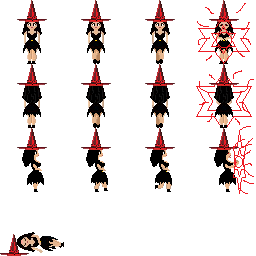
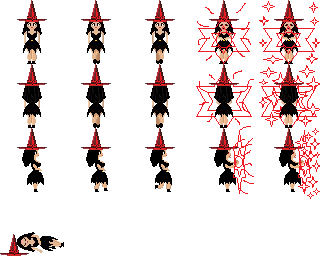
adicionado mecanica de escalar magia

diff --git a/src/engine.js b/src/engine.js
@@ -8,6 +8,14 @@ class Engine {
         this.resize()
         window.addEventListener('resize', () => this.resize())
         this.entities = []
+
+        this.backgroundImage = new Image();
+        this.backgroundImage.src = 'img/background.png';
+
+        this.backgroundPattern = null;
+        this.backgroundImage.onload = () => {
+            this.backgroundPattern = this.context.createPattern(this.backgroundImage, 'repeat');
+        };
     }
 
     resize() {
@@ -40,7 +48,8 @@ class Engine {
             if (entity instanceof Player && !entity.isDead) { // Evita colisão se estiver morto
                 allMagics.forEach(magic => {
                     if (magic.owner !== entity && this.checkCollision(entity, magic)) {
-                        entity.takeDamage(20);
+                        const damage = magic.getDamage();
+                        entity.takeDamage(damage);
                         magic.owner.magics.splice(magic.owner.magics.indexOf(magic), 1);
                     }
                 });
@@ -50,20 +59,40 @@ class Engine {
         for (let i = 0; i < allMagics.length; i++) {
             for (let j = i + 1; j < allMagics.length; j++) {
                 if (this.checkCollision(allMagics[i], allMagics[j])) {
-                    allMagics[i].owner.magics.splice(allMagics[i].owner.magics.indexOf(allMagics[i]), 1);
-                    allMagics[j].owner.magics.splice(allMagics[j].owner.magics.indexOf(allMagics[j]), 1);
+                    const magicA = allMagics[i];
+                    const magicB = allMagics[j];
+                    
+                    const MAX_MAGIC_SIZE = 256;
+                    if (magicA.owner === magicB.owner) {
+                        if (magicA.size < MAX_MAGIC_SIZE) {
+                            magicA.size *= 1.5;
+                        }
+                        magicB.owner.magics.splice(magicB.owner.magics.indexOf(magicB), 1);
+                    } else {
+                        // Se forem de donos diferentes, a maior destrói a menor
+                        if (magicA.size > magicB.size) {
+                            magicB.owner.magics.splice(magicB.owner.magics.indexOf(magicB), 1);
+                        } else if (magicB.size > magicA.size) {
+                            magicA.owner.magics.splice(magicA.owner.magics.indexOf(magicA), 1);
+                        } else {
+                            // Se forem do mesmo tamanho, se cancelam
+                            magicA.owner.magics.splice(magicA.owner.magics.indexOf(magicA), 1);
+                            magicB.owner.magics.splice(magicB.owner.magics.indexOf(magicB), 1);
+                        }
+                    }
                 }
             }
         }
     }
     
-        
 
     render() {
-        this.context.clearRect(0, 0, this.canvas.width, this.canvas.height)
+        if (this.backgroundPattern) {
+            this.context.fillStyle = this.backgroundPattern;
+            this.context.fillRect(0, 0, this.canvas.width, this.canvas.height);
+        }
         this.entities.sort((a, b) => a.y - b.y)
         this.entities.forEach(entity => entity.render(this.context))
-        requestAnimationFrame(() => this.render())
     }
 
     addEntity(entity) {
@@ -71,11 +100,16 @@ class Engine {
     }
 
     start() {
-        const loop = () => {
-            this.update()
-            this.render()
-            requestAnimationFrame(loop)
-        }
-        loop()
+        let lastTime = 0;
+        const loop = (currentTime) => {
+            const deltaTime = currentTime - lastTime;
+            if (deltaTime >= (1000 / 30)) { // 60 FPS
+                lastTime = currentTime;
+                this.update();
+                this.render();
+            }
+            requestAnimationFrame(loop);
+        };
+        requestAnimationFrame(loop);
     }
 }

diff --git a/src/player.js b/src/player.js
@@ -23,7 +23,7 @@ class Player {
 
         this.magicKey = magicKey;
         this.magics = [];
-        this.magicCooldown = 500;
+        this.magicCooldown = 300;
         this.lastMagicTime = 0;
 
         this.hp = 100;
@@ -118,9 +118,6 @@ class Player {
             }
         }
 
-        this.castingLoop--
-        console.log(this.castingLoop)
-
         if (inputManager.isKeyPressed(this.controls.right)) {
             this.x += this.speed;
             this.direction = 'side';
@@ -155,27 +152,40 @@ class Player {
 
         this.magics = this.magics.filter(magic => magic.update());
 
-        this.frameIndex = moving ? (this.frameIndex % 2) + 1 : 0;
+        if (this.isCastingMagic) {
+            this.frameIndex = 3 + (this.frameIndex % 2); // Usa as colunas 4 e 5 (começa do 3 pq índice começa em 0)
+        } else if (moving) {
+            this.frameIndex = 1 + (this.frameIndex % 2); // Usa as colunas 2 e 3
+        } else {
+            this.frameIndex = 0; // Padrão parado
+        }
     }
 
     castMagic() {
         if (this.isDead) return; // Impede de lançar magias depois de morto
-
-        let magicX = this.x;
-        let magicY = this.y;
-
+    
+        const magicSize = 16; // Tamanho de colisão da magia
+        const spriteOffset = 32; // Metade do tamanho do sprite da magia (exemplo: se for 64x64)
+    
+        let magicX = this.x + this.width / 2 - magicSize / 2; // Centraliza horizontalmente
+        let magicY = this.y + this.height / 2 - magicSize / 2; // Centraliza verticalmente
+    
         let direction = 'right';
-
+    
         if (this.direction === 'side') {
             direction = this.flipped ? 'left' : 'right';
+            magicX += this.flipped ? -spriteOffset : spriteOffset; // Ajusta a posição para sair da mão do player
         } else if (this.direction === 'up') {
             direction = 'up';
+            magicY -= spriteOffset;
         } else if (this.direction === 'down') {
             direction = 'down';
+            magicY += spriteOffset;
         }
-
+    
         this.magics.push(new Magic(magicX, magicY, direction, this));
     }
+    
 
     renderHealthBar(context) {
         if (this.isDead) return; // Não exibe barra de vida se morto
@@ -198,7 +208,7 @@ class Player {
         } else if (this.isCastingMagic) {
             const directions = { down: 0, up: 1, side: 2 };
             row = directions[this.direction];
-            col = 3;
+            col = this.frameIndex;
 
         } else {
             const directions = { down: 0, up: 1, side: 2 };

diff --git a/src/magic.js b/src/magic.js
@@ -7,8 +7,10 @@ class Magic {
 
       this.x = x
       this.y = y
-      this.width = 64
-      this.height = 64
+      this.initialSize = 16
+      this.size = this.initialSize
+      this.width = this.size
+      this.height = this.size
       this.speed = 5
       this.owner = owner
       this.direction = direction
@@ -22,6 +24,10 @@ class Magic {
           this.imageLoaded = true
           this.applyColorFilter()
       }
+  }
+
+  getDamage() {
+    return Math.round((this.size / 16) * 20); // O dano base é 20 para magias de tamanho 64
   }
 
   applyColorFilter() {
@@ -44,12 +50,27 @@ class Magic {
   }
 
   update() {
-      if (this.direction === 'right') this.x += this.speed
-      if (this.direction === 'left') this.x -= this.speed
-      if (this.direction === 'up') this.y -= this.speed
-      if (this.direction === 'down') this.y += this.speed
-    
-      return !(this.x < 0 || this.x > window.innerWidth || this.y < 0 || this.y > window.innerHeight)
+    // Antes de mover, guarda a posição antiga do centro
+    const oldCenterX = this.x + this.width / 2;
+    const oldCenterY = this.y + this.height / 2;
+
+    if (this.direction === 'right') this.x += this.speed;
+    if (this.direction === 'left') this.x -= this.speed;
+    if (this.direction === 'up') this.y -= this.speed;
+    if (this.direction === 'down') this.y += this.speed;
+
+    // Após a colisão e crescimento, recalcula a posição
+    if (this.size !== this.width) { 
+        const sizeIncrease = this.size - this.width;
+        this.width = this.size;
+        this.height = this.size;
+
+        // Ajusta para manter o centro no mesmo lugar
+        this.x = oldCenterX - this.width / 2;
+        this.y = oldCenterY - this.height / 2;
+    }
+
+    return !(this.x < 0 || this.x > window.innerWidth || this.y < 0 || this.y > window.innerHeight);
   }
 
   render(context) {

diff --git a/src/game.js b/src/game.js
@@ -5,17 +5,17 @@ class Game {
         this.engine = new Engine()
 
         if (mode === 'single') {
-            this.player1 = new Player(100, 100, 3, {
+            this.player1 = new Player(100, 100, 4, {
                 up: 'ArrowUp', down: 'ArrowDown', left: 'ArrowLeft', right: 'ArrowRight'
             }, 'white', 'Enter')
 
             this.engine.addEntity(this.player1)
         } else if (mode === 'multi') {
-            this.player1 = new Player(100, 100, 3, {
+            this.player1 = new Player(100, 100, 4, {
                 up: 'ArrowUp', down: 'ArrowDown', left: 'ArrowLeft', right: 'ArrowRight'
             }, 'red', 'Enter')
 
-            this.player2 = new Player(300, 100, 3, {
+            this.player2 = new Player(300, 100, 4, {
                 up: 'w', down: 's', left: 'a', right: 'd'
             }, 'blue', ' ')
 
